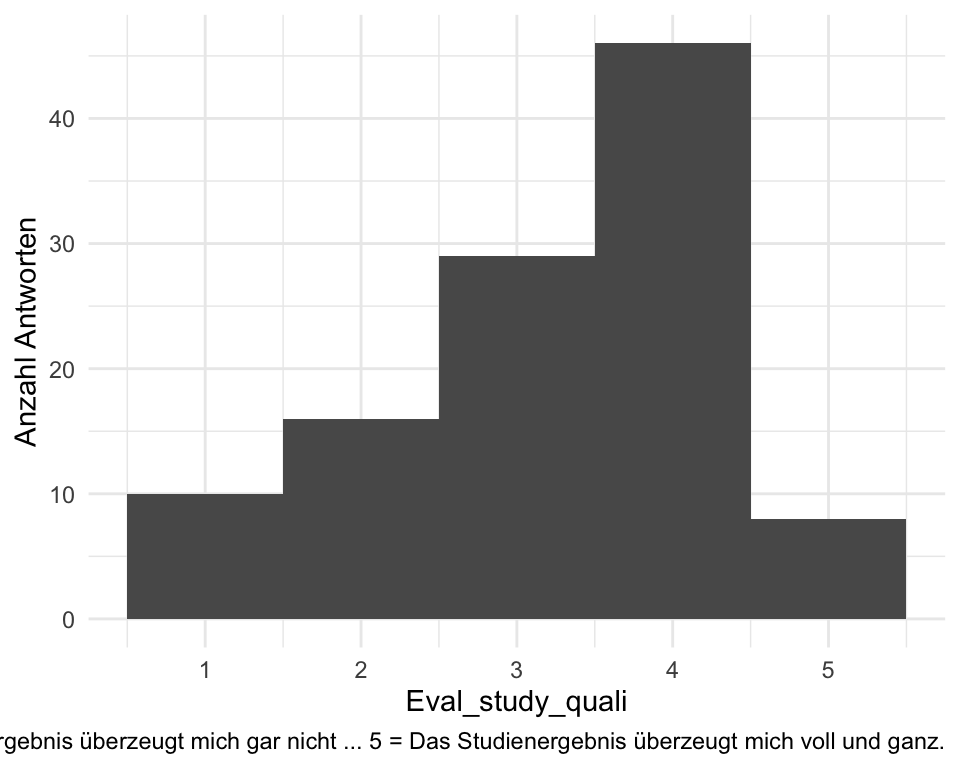
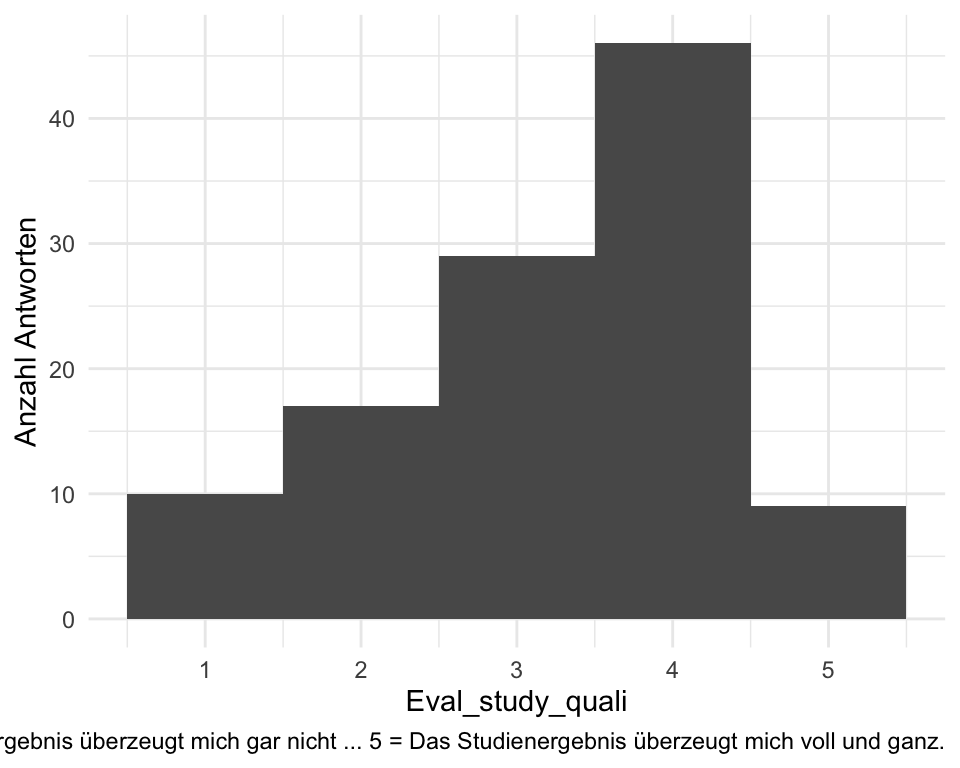
Gutscheincode hinzugefügt.

Changed region(s): [[0.7812, 0.6562, 0.9688, 0.6875], [0.2812, 0.5312, 0.4688, 0.5625]]

diff --git a/Block06-Wiederholung/index.html b/Block06-Wiederholung/index.html
@@ -31,6 +31,71 @@
       margin: 0 0.8em 0.2em -1em; /* quarto-specific, see https://github.com/quarto-dev/quarto-cli/issues/4556 */ 
       vertical-align: middle;
     }
+    /* CSS for syntax highlighting */
+    pre > code.sourceCode { white-space: pre; position: relative; }
+    pre > code.sourceCode > span { line-height: 1.25; }
+    pre > code.sourceCode > span:empty { height: 1.2em; }
+    .sourceCode { overflow: visible; }
+    code.sourceCode > span { color: inherit; text-decoration: inherit; }
+    div.sourceCode { margin: 1em 0; }
+    pre.sourceCode { margin: 0; }
+    @media screen {
+    div.sourceCode { overflow: auto; }
+    }
+    @media print {
+    pre > code.sourceCode { white-space: pre-wrap; }
+    pre > code.sourceCode > span { display: inline-block; text-indent: -5em; padding-left: 5em; }
+    }
+    pre.numberSource code
+      { counter-reset: source-line 0; }
+    pre.numberSource code > span
+      { position: relative; left: -4em; counter-increment: source-line; }
+    pre.numberSource code > span > a:first-child::before
+      { content: counter(source-line);
+        position: relative; left: -1em; text-align: right; vertical-align: baseline;
+        border: none; display: inline-block;
+        -webkit-touch-callout: none; -webkit-user-select: none;
+        -khtml-user-select: none; -moz-user-select: none;
+        -ms-user-select: none; user-select: none;
+        padding: 0 4px; width: 4em;
+        color: #aaaaaa;
+      }
+    pre.numberSource { margin-left: 3em; border-left: 1px solid #aaaaaa;  padding-left: 4px; }
+    div.sourceCode
+      { color: #003b4f; background-color: #f1f3f5; }
+    @media screen {
+    pre > code.sourceCode > span > a:first-child::before { text-decoration: underline; }
+    }
+    code span { color: #003b4f; } /* Normal */
+    code span.al { color: #ad0000; } /* Alert */
+    code span.an { color: #5e5e5e; } /* Annotation */
+    code span.at { color: #657422; } /* Attribute */
+    code span.bn { color: #ad0000; } /* BaseN */
+    code span.bu { } /* BuiltIn */
+    code span.cf { color: #003b4f; font-weight: bold; } /* ControlFlow */
+    code span.ch { color: #20794d; } /* Char */
+    code span.cn { color: #8f5902; } /* Constant */
+    code span.co { color: #5e5e5e; } /* Comment */
+    code span.cv { color: #5e5e5e; font-style: italic; } /* CommentVar */
+    code span.do { color: #5e5e5e; font-style: italic; } /* Documentation */
+    code span.dt { color: #ad0000; } /* DataType */
+    code span.dv { color: #ad0000; } /* DecVal */
+    code span.er { color: #ad0000; } /* Error */
+    code span.ex { } /* Extension */
+    code span.fl { color: #ad0000; } /* Float */
+    code span.fu { color: #4758ab; } /* Function */
+    code span.im { color: #00769e; } /* Import */
+    code span.in { color: #5e5e5e; } /* Information */
+    code span.kw { color: #003b4f; font-weight: bold; } /* Keyword */
+    code span.op { color: #5e5e5e; } /* Operator */
+    code span.ot { color: #003b4f; } /* Other */
+    code span.pp { color: #ad0000; } /* Preprocessor */
+    code span.sc { color: #5e5e5e; } /* SpecialChar */
+    code span.ss { color: #20794d; } /* SpecialString */
+    code span.st { color: #20794d; } /* String */
+    code span.va { color: #111111; } /* Variable */
+    code span.vs { color: #20794d; } /* VerbatimString */
+    code span.wa { color: #5e5e5e; font-style: italic; } /* Warning */
   </style>
   <link rel="stylesheet" href="index_files/libs/revealjs/dist/theme/quarto-32e780be6ed81d175fe27ac2b757fda2.css">
   <link href="index_files/libs/revealjs/plugin/quarto-line-highlight/line-highlight.css" rel="stylesheet">
@@ -288,6 +353,23 @@
 </blockquote>
 </div></div>
 </section>
+<section id="gutschein-code" class="slide level2">
+<h2>Gutschein Code</h2>
+<p>Der Gewinnercode (bis auf die letzten vier Zeichen) lautet:</p>
+<div class="cell">
+<div class="sourceCode cell-code" id="cb1"><pre class="sourceCode numberSource r number-lines code-with-copy"><code class="sourceCode r"><span id="cb1-1"><a href=""></a><span class="fu">set.seed</span>(<span class="dv">1893</span>)</span>
+<span id="cb1-2"><a href=""></a>ds <span class="sc">%&gt;%</span> </span>
+<span id="cb1-3"><a href=""></a>  <span class="fu">filter</span>(<span class="sc">!</span><span class="fu">is.na</span>(ZG03_01)) <span class="sc">%&gt;%</span> </span>
+<span id="cb1-4"><a href=""></a>  <span class="fu">sample_n</span>(<span class="dv">1</span>) <span class="sc">%&gt;%</span></span>
+<span id="cb1-5"><a href=""></a>  <span class="fu">pull</span>(ZG03_01) <span class="sc">%&gt;%</span> </span>
+<span id="cb1-6"><a href=""></a>  <span class="fu">substr</span>(., <span class="dv">1</span>,<span class="dv">8</span>)</span></code><button title="In die Zwischenablage kopieren" class="code-copy-button"><i class="bi"></i></button></pre></div>
+<div class="cell-output cell-output-stdout">
+<pre><code>[1] "OAOY6WY4"
+attr(,"class")
+[1] "avector"   "character"</code></pre>
+</div>
+</div>
+</section>
 <section id="literatur" class="slide level2">
 <h2>Literatur</h2>
 <style>
@@ -299,7 +381,7 @@ div.callout {border-left-color: #8cd000 !important;
   <div class="quarto-auto-generated-content" style="display: none;">
 <p><img src="img/PHlogo.svg" class="slide-logo"></p>
 <div class="footer footer-default">
-<p>Samuel Merk | Pädagogische Hochschule Karlsruhe</p>
+<p>S. Merk &amp; C. Parrisius | Pädagogische Hochschule Karlsruhe</p>
 </div>
 </div></div>
 
